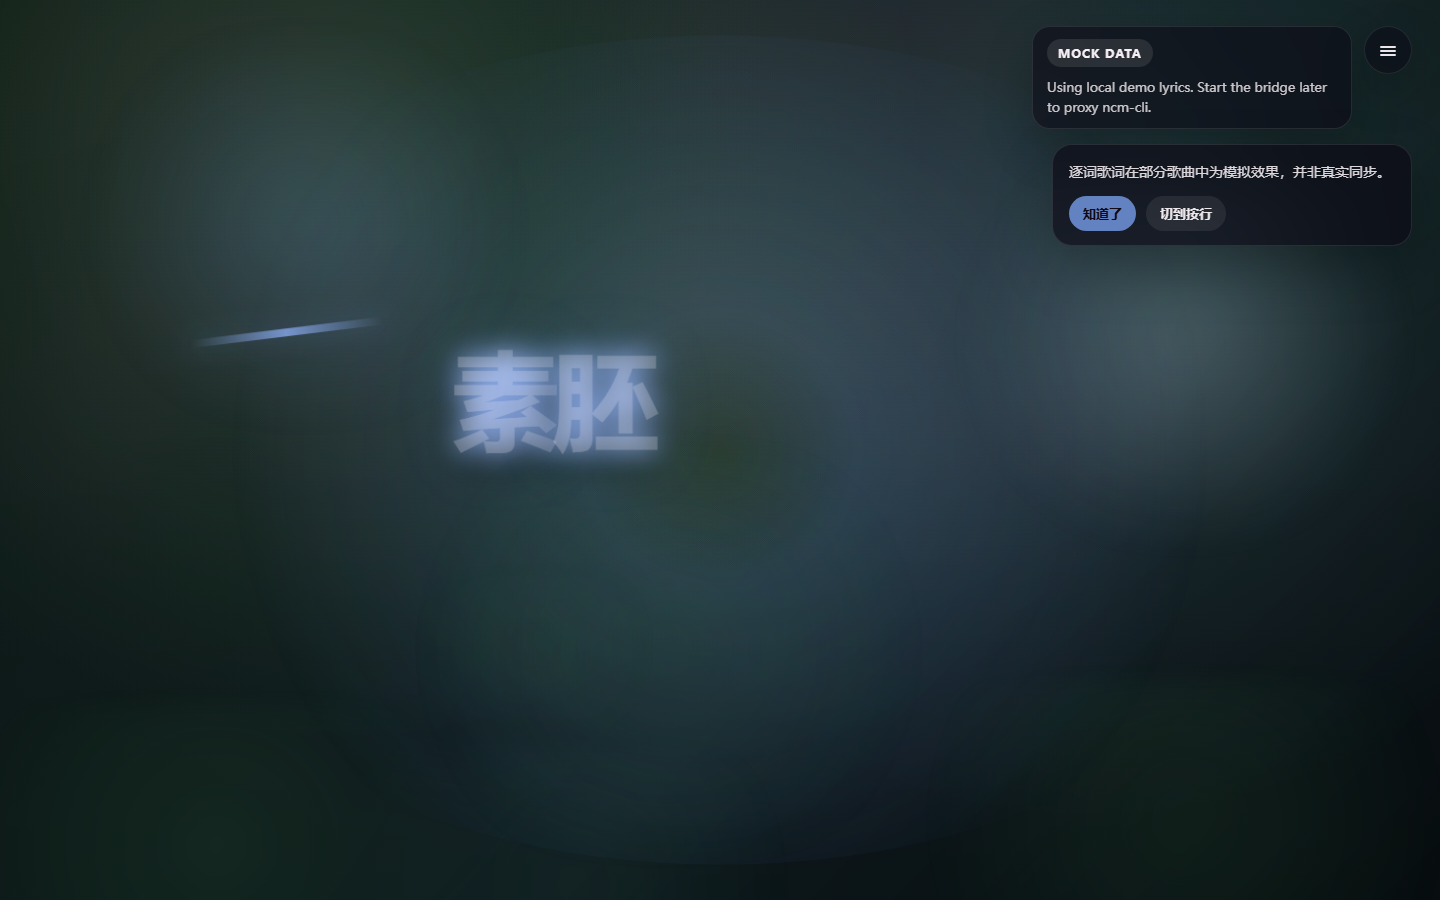
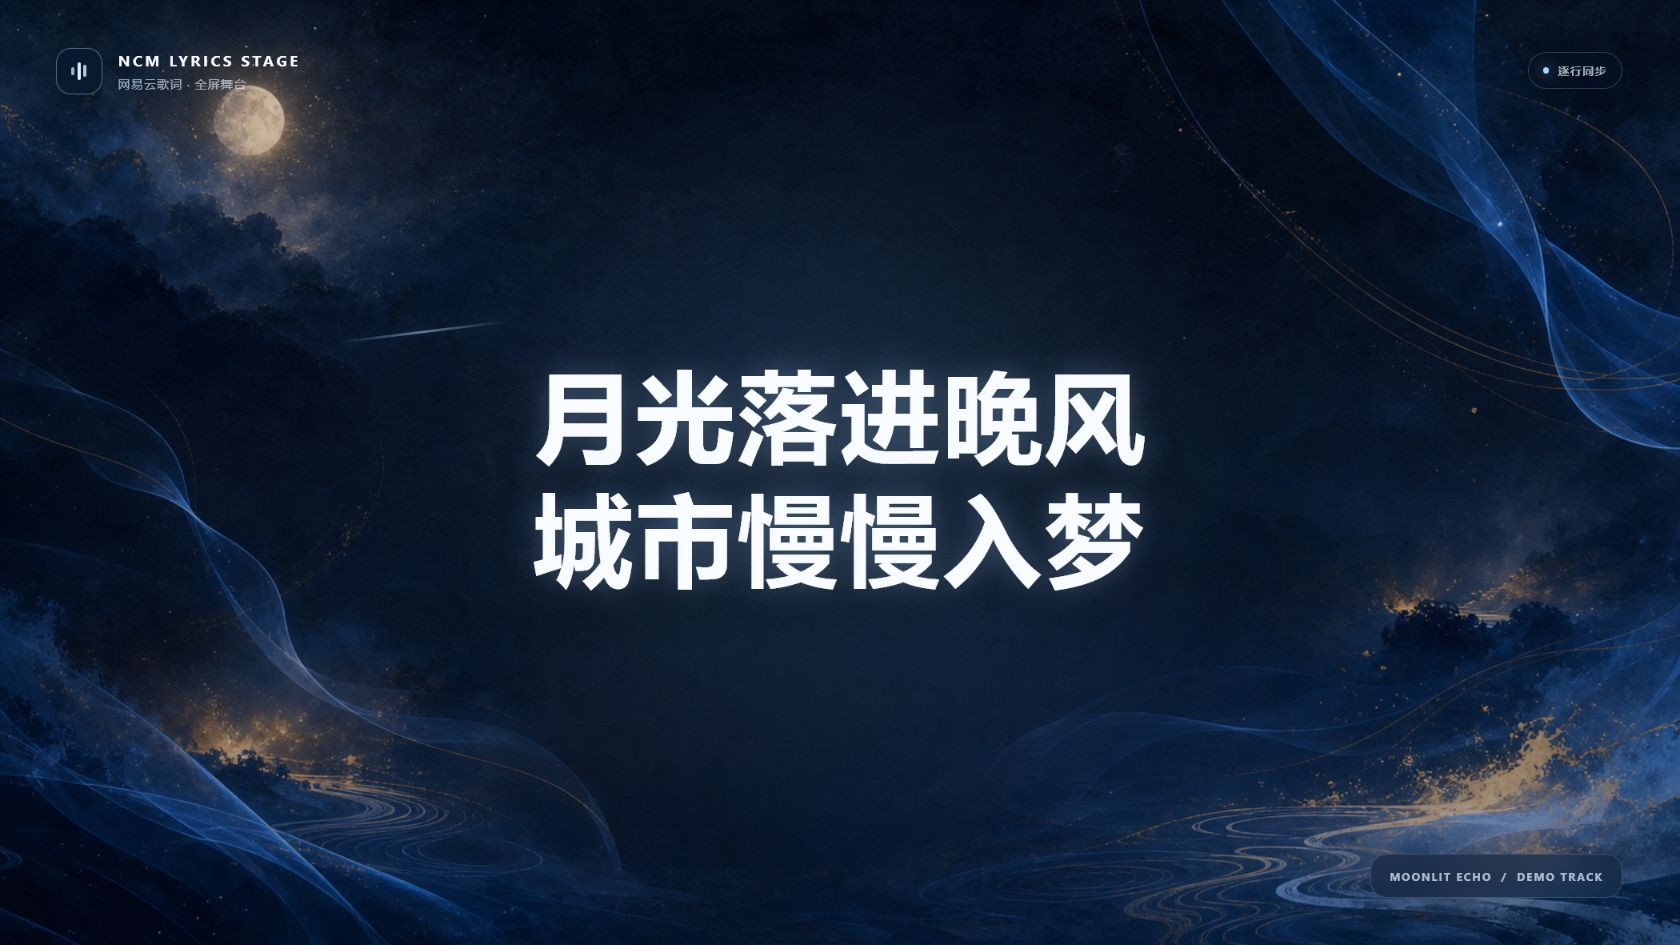
Update README showcase and Chinese demo (#1)

diff --git a/frontend/lyrics-stage-app.js b/frontend/lyrics-stage-app.js
@@ -42,38 +42,38 @@
                 },
             ],
         },
-        "qing-hua-ci": {
-            key: "qing-hua-ci",
-            title: "青花瓷",
-            artist: "周杰伦",
+        "moonlit-echo": {
+            key: "moonlit-echo",
+            title: "月色回声",
+            artist: "Lyric Stage Demo",
             lines: [
                 {
                     accent: "#7ba6ff",
                     accentSoft: "rgba(123, 166, 255, 0.24)",
                     accentCold: "#d7ecff",
-                    rows: [["素胚", "勾勒", "出"], ["青花", "笔锋", "浓转淡"]],
-                    durations: [0.42, 0.46, 0.2, 0.42, 0.5, 0.58],
+                    rows: [["晚风", "掠过", "屋檐"], ["灯火", "落在", "指尖"]],
+                    durations: [0.42, 0.46, 0.5, 0.42, 0.46, 0.54],
                 },
                 {
                     accent: "#8fd6ff",
                     accentSoft: "rgba(143, 214, 255, 0.22)",
                     accentCold: "#f6fbff",
-                    rows: [["瓶身", "描绘", "的"], ["牡丹", "一如", "你", "初妆"]],
-                    durations: [0.46, 0.42, 0.18, 0.42, 0.48, 0.22, 0.54],
+                    rows: [["月光", "落进", "晚风"], ["城市", "慢慢", "入梦"]],
+                    durations: [0.46, 0.42, 0.5, 0.42, 0.48, 0.56],
                 },
                 {
                     accent: "#c2b0ff",
                     accentSoft: "rgba(194, 176, 255, 0.2)",
                     accentCold: "#8fd6ff",
-                    rows: [["冉冉", "檀香", "透过"], ["窗", "心事", "我", "了然"]],
-                    durations: [0.44, 0.44, 0.48, 0.28, 0.46, 0.2, 0.5],
+                    rows: [["让", "旋律", "穿过"], ["每一扇", "亮着的", "窗"]],
+                    durations: [0.24, 0.46, 0.5, 0.52, 0.54, 0.28],
                 },
                 {
                     accent: "#7ba6ff",
                     accentSoft: "rgba(123, 166, 255, 0.24)",
                     accentCold: "#f7f7ff",
-                    rows: [["宣纸", "上", "走笔"], ["至", "此", "搁一半"]],
-                    durations: [0.42, 0.2, 0.46, 0.18, 0.28, 0.54],
+                    rows: [["等", "下一阵", "风来"], ["把故事", "轻轻", "展开"]],
+                    durations: [0.22, 0.54, 0.48, 0.5, 0.42, 0.56],
                 },
             ],
         },

diff --git a/scripts/start-lyrics-demo.js b/scripts/start-lyrics-demo.js
@@ -98,7 +98,7 @@ async function main() {
     console.log(`Lyrics demo: ${DEMO_URL}`);
     console.log(`Bridge health: ${HEALTH_URL}`);
     console.log(`Mock showcase: ${DEMO_URL}?mode=mock&track=tiptoes-after-midnight`);
-    console.log(`Qing Hua Ci showcase: ${DEMO_URL}?mode=mock&track=qing-hua-ci`);
+    console.log(`Moonlit Echo showcase: ${DEMO_URL}?mode=mock&track=moonlit-echo`);
     console.log(`Logs: ${LOG_PATH}`);
 
     if (SHOULD_OPEN) {

diff --git a/scripts/run-lyrics-layout-audit.js b/scripts/run-lyrics-layout-audit.js
@@ -10,7 +10,7 @@ const BASE_URL = process.env.LYRICS_AUDIT_BASE_URL || "http://127.0.0.1:3210/";
 const EXISTING_CDP_PORT = Number(process.env.LYRICS_AUDIT_CDP_PORT || 0);
 const CASES = [
     { name: "tiptoes-after-midnight", mode: "mock", track: "tiptoes-after-midnight" },
-    { name: "qing-hua-ci", mode: "mock", track: "qing-hua-ci" },
+    { name: "moonlit-echo", mode: "mock", track: "moonlit-echo" },
 ];
 
 function findBrowser() {

diff --git a/README.md b/README.md
@@ -2,6 +2,8 @@
 
 `NCM Lyrics Stage` is a local-first product prototype that turns NetEase Cloud Music lyrics into a full-screen performance surface.
 
+**中文简介：** 一个本地优先的网易云音乐歌词舞台原型，将逐词 / 逐行歌词、播放状态与沉浸式全屏视觉融合在一起。
+
 ![NCM Lyrics Stage showcase](docs/showcase.png)
 
 It combines three parts:
@@ -65,7 +67,7 @@ After startup the bridge serves the app on `http://127.0.0.1:3210/` by default.
 
 - Live bridge mode: [http://127.0.0.1:3210/](http://127.0.0.1:3210/)
 - Built-in mock demo: [http://127.0.0.1:3210/?mode=mock&track=tiptoes-after-midnight](http://127.0.0.1:3210/?mode=mock&track=tiptoes-after-midnight)
-- Chinese lyric demo: [http://127.0.0.1:3210/?mode=mock&track=qing-hua-ci](http://127.0.0.1:3210/?mode=mock&track=qing-hua-ci)
+- Chinese lyric demo: [http://127.0.0.1:3210/?mode=mock&track=moonlit-echo](http://127.0.0.1:3210/?mode=mock&track=moonlit-echo)
 - Cached lyric preview example: `http://127.0.0.1:3210/?preview=1&songId=<netease-song-id>`
 
 ## Available Commands
